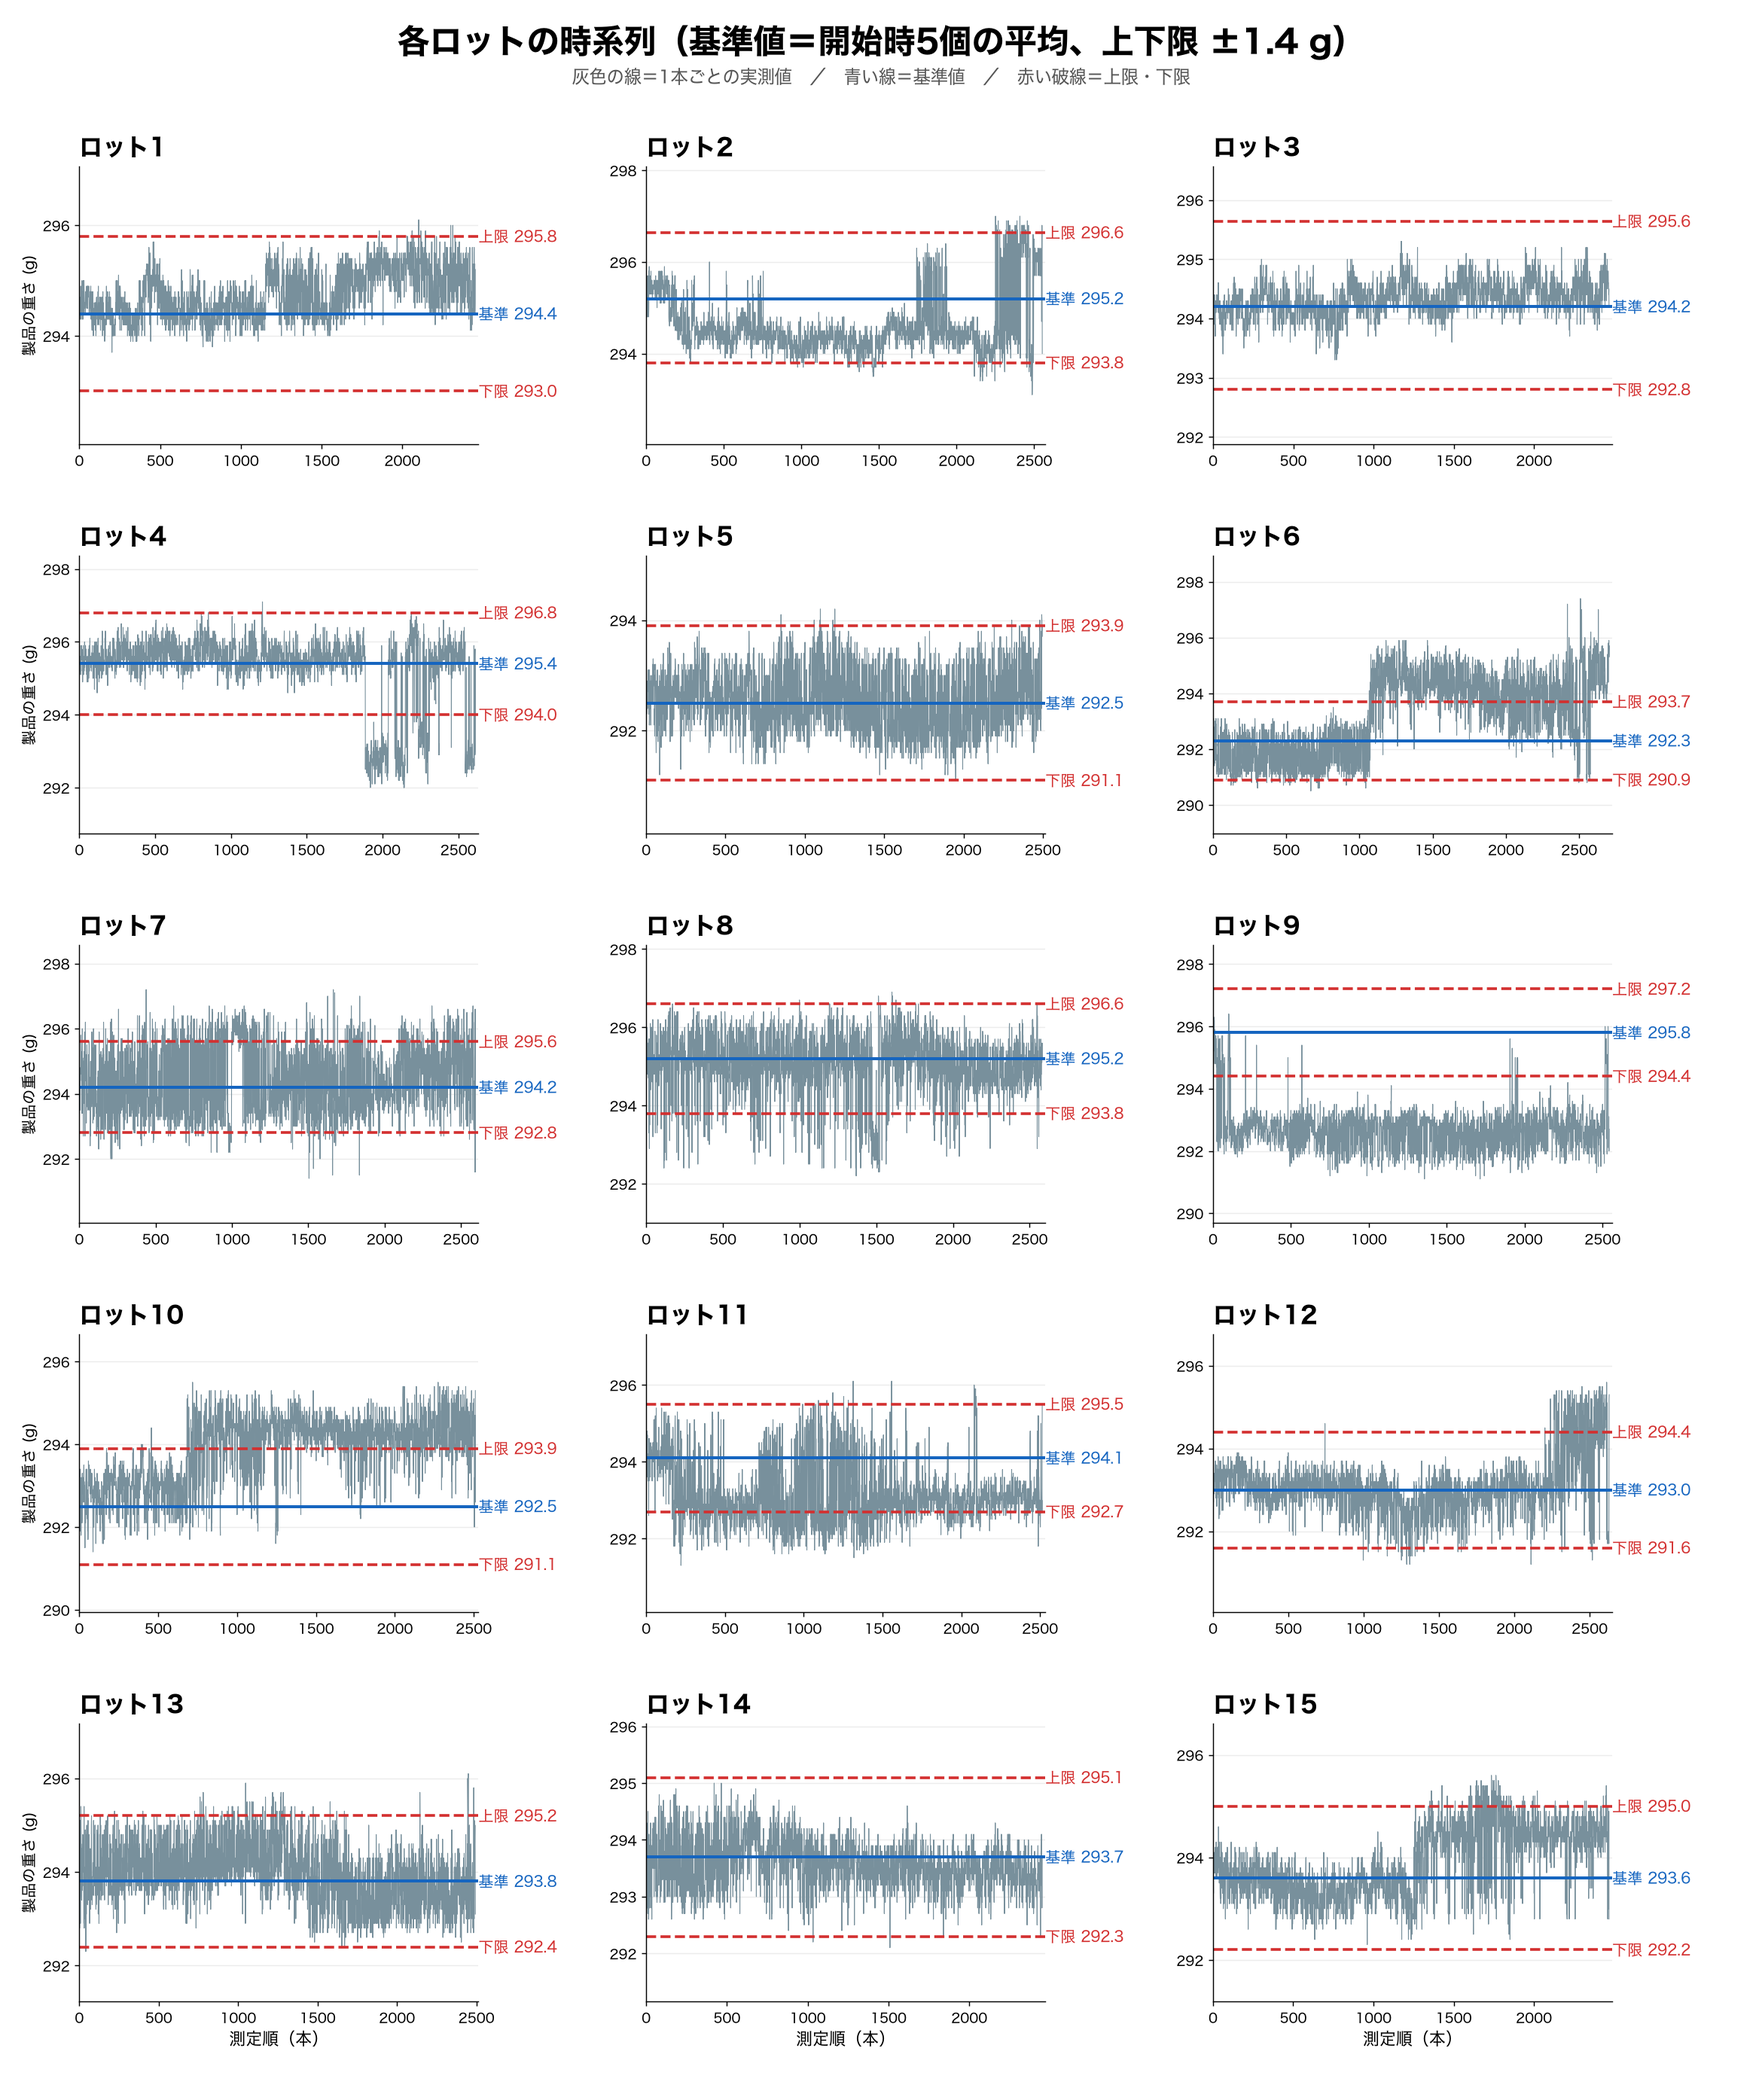
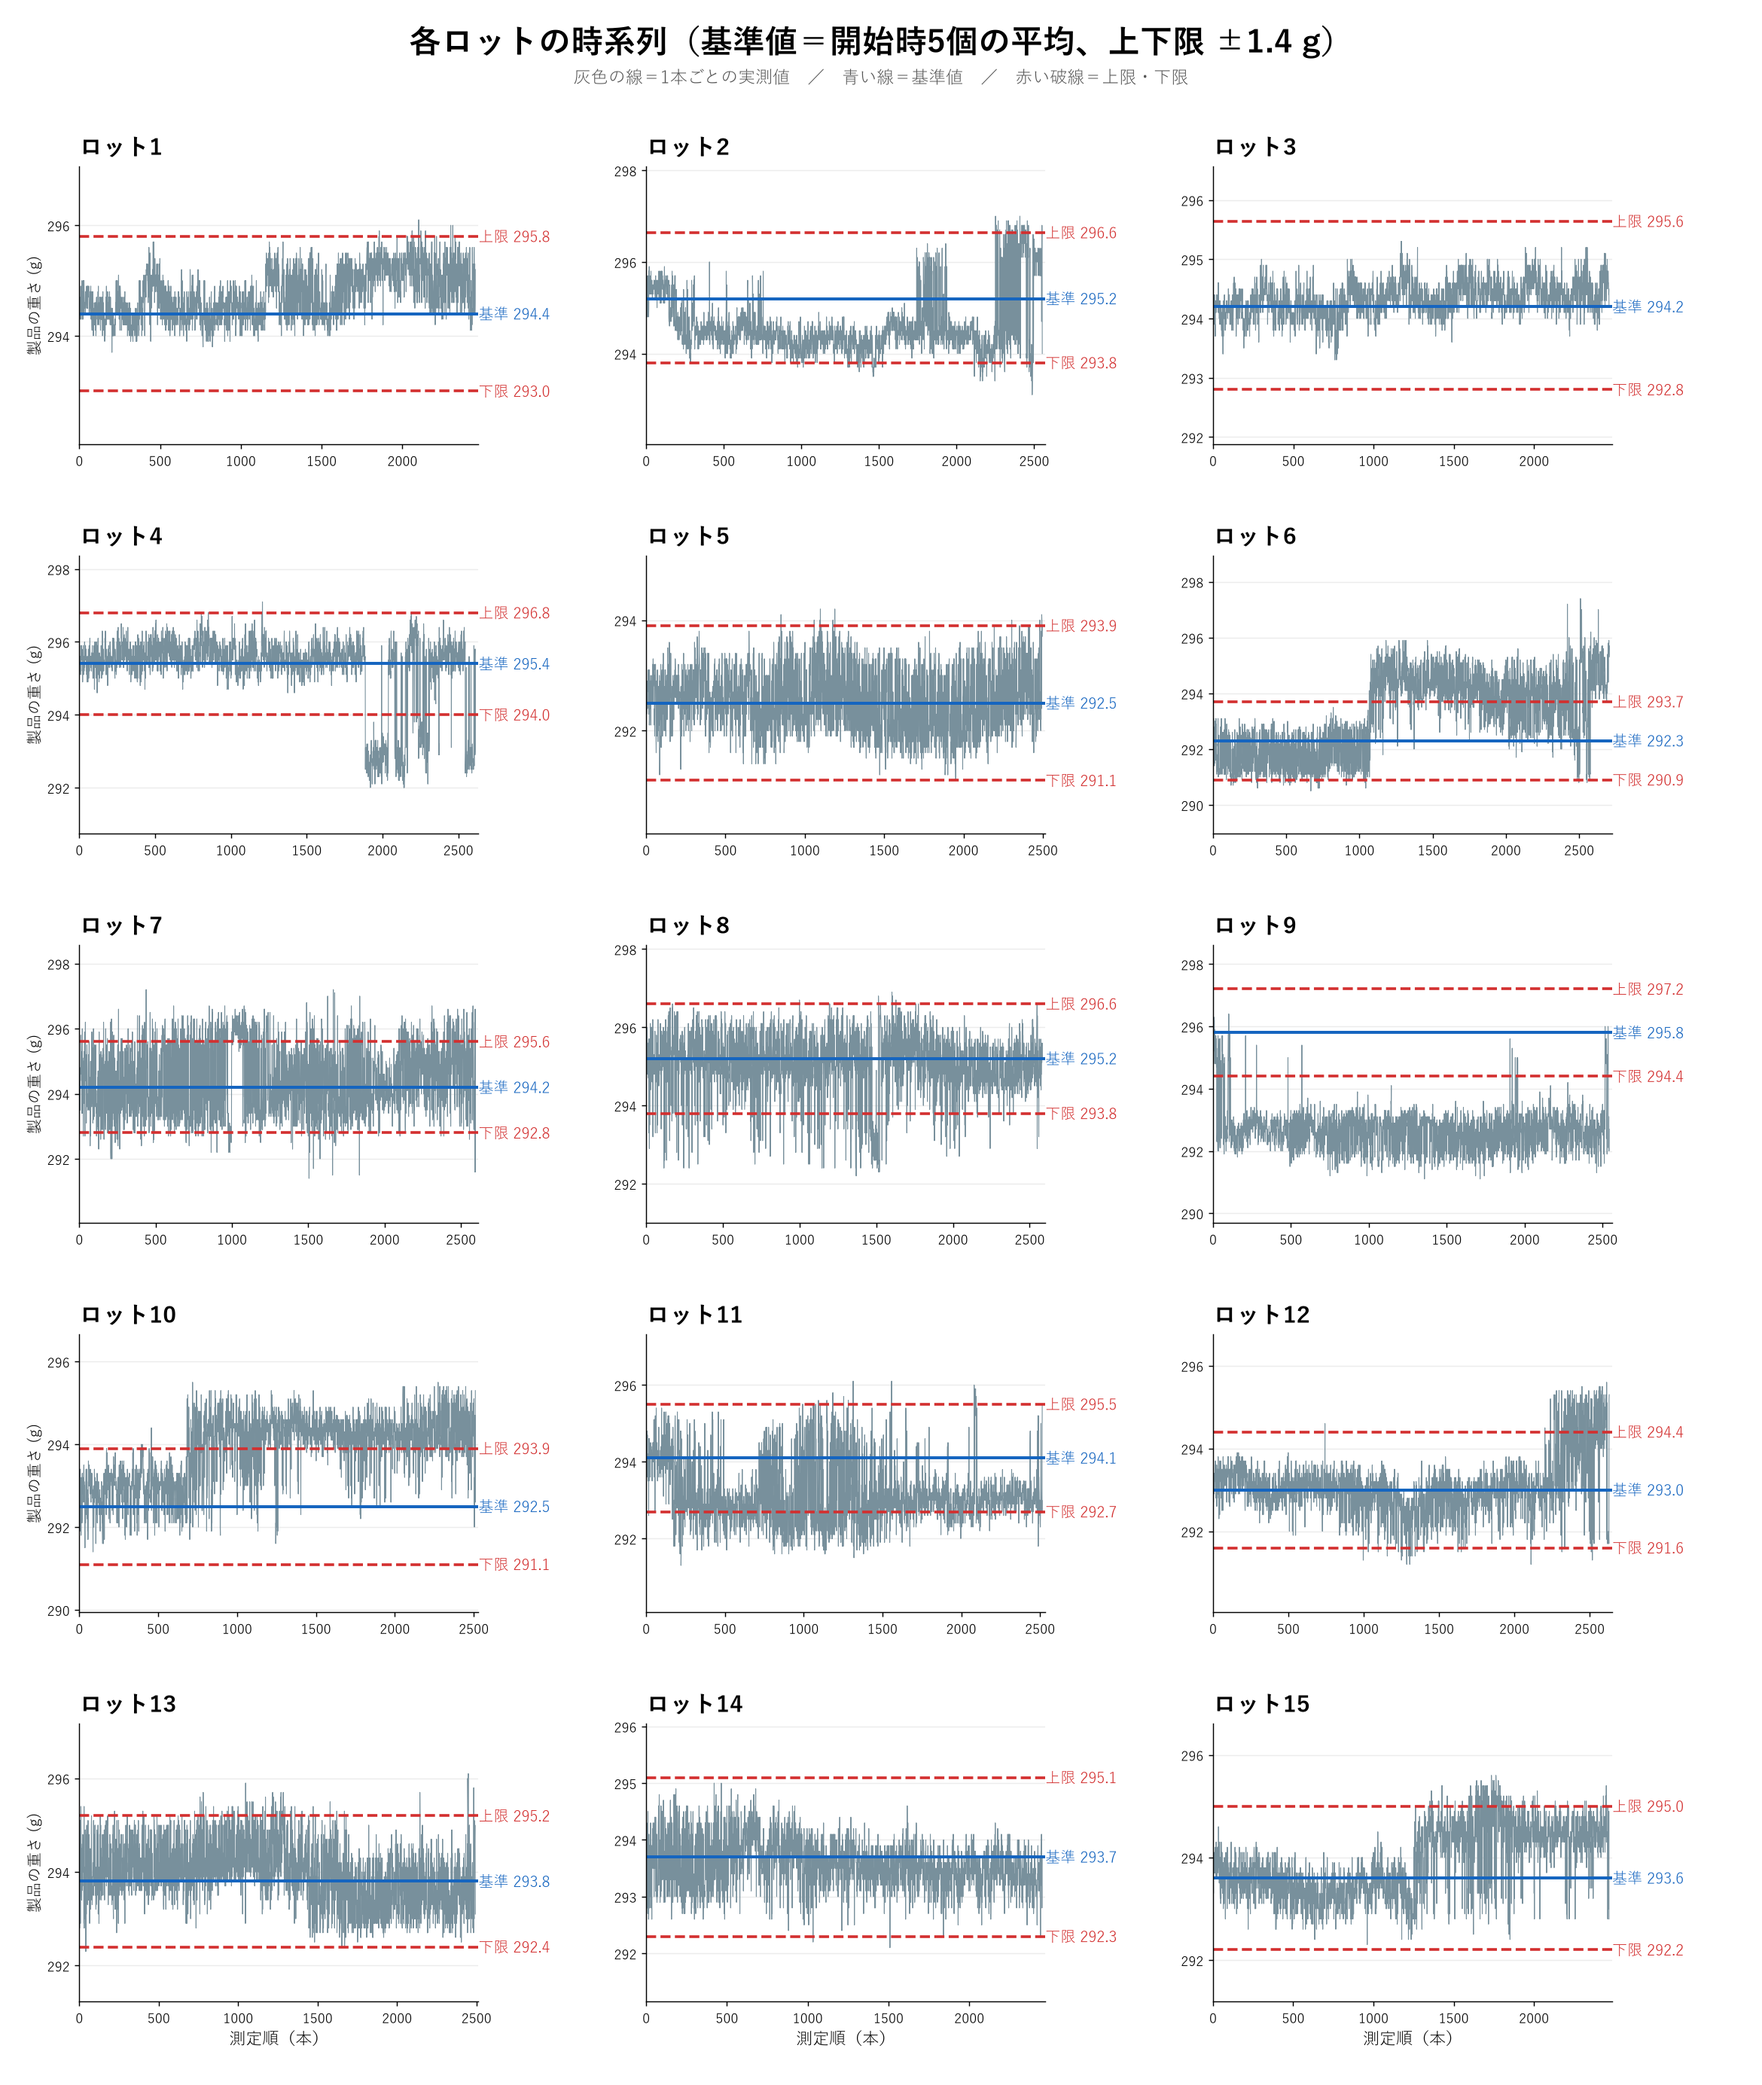
font change

diff --git a/graph_timeseries.py b/graph_timeseries.py
@@ -16,7 +16,7 @@ N_LOTS     = 15      # ロット数
 FIRST_ROW  = 5       # データが始まる行
 FIRST_COL  = 1       # ロット1の「実測値」列（0始まり。B列=1）
 COLS_PER_LOT = 4     # 1ロットあたりの列数（実測値・基準・上限・下限）
-FONT_NAME = "Hiragino Sans"    # Windowsなら "MS Gothic" や "Yu Gothic"
+FONT_NAME = "Yu Gothic"    # Windowsなら "MS Gothic" や "Yu Gothic"
 # ==========================================
 
 plt.rcParams["font.family"] = FONT_NAME
